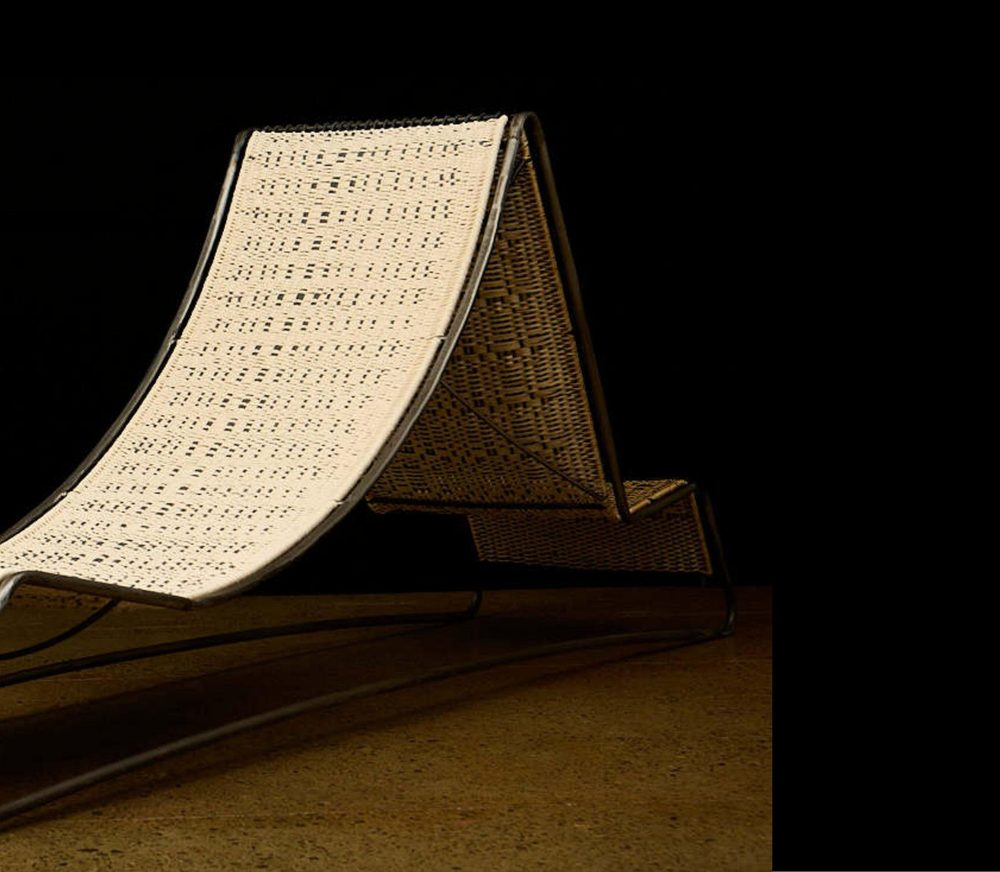
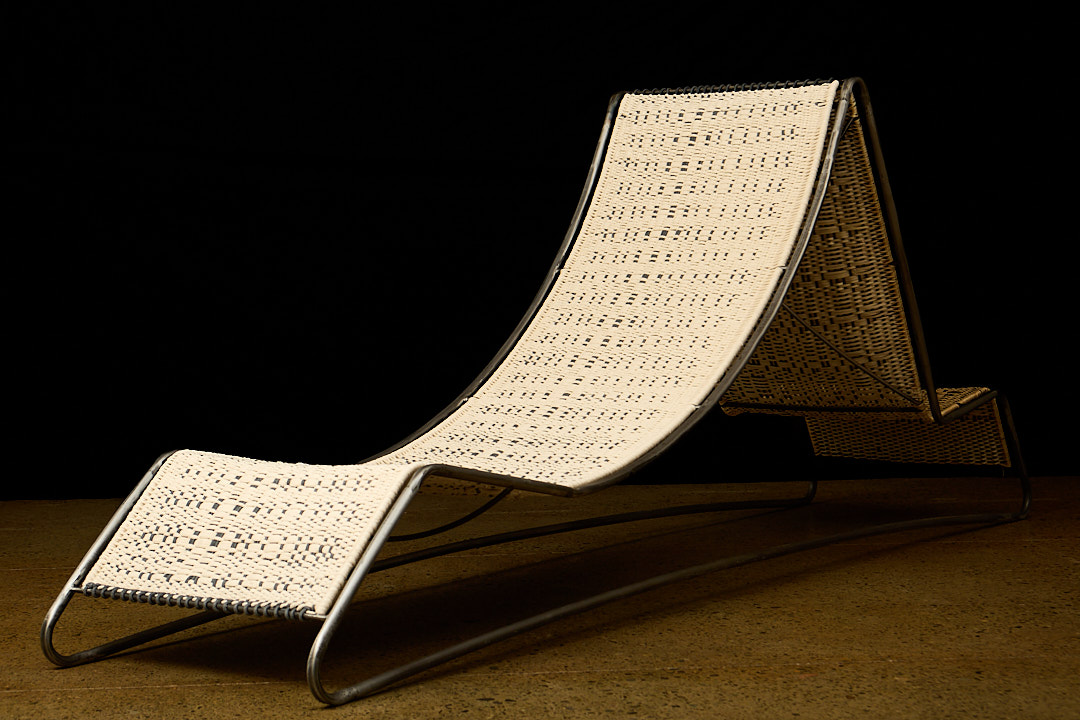
Volver a fondo negro en Productos y corregir foto de Contrapunto
- Restaura el fondo negro de la sección Productos (tanto la sección
  como las fotos recortadas van en negro, no en claro) — las fotos
  siguen sin fondo/flotando, solo cambia el color detrás.
- Reemplaza la foto de Contrapunto por la versión completa del
  catálogo oficial (la anterior estaba cortada por el borde izquierdo,
  perdía parte del sillón).

Pendiente: la foto de Tramas Suspendidas también está cortada por la
izquierda: se mantiene la versión actual (correcta en cuanto a pieza,
pero incompleta) hasta confirmar cuál es la foto completa correcta en
el catálogo — hay más de una silla con estética similar en las fotos
oficiales y no quiero arriesgar poner la pieza equivocada.

diff --git a/css/style.css b/css/style.css
@@ -637,13 +637,13 @@ ol {
   color: var(--color-carbon-soft);
 }
 
-/* ---- Productos: piezas de la colección ----
-   Fotos recortadas (sin fondo) para que floten sobre el fondo claro de
-   la página, en vez de la caja negra usada en el resto de las fotos de
-   producto. */
+/* ---- Productos: piezas de la colección (fondo negro, fotos de producto) ----
+   Las fotos van sin fondo (recorte del objeto) pero "flotan" sobre el
+   fondo negro de la sección, en vez de mostrarse dentro de una caja
+   rectangular. */
 .productos {
-  background: var(--color-offwhite);
-  color: var(--color-carbon);
+  background: var(--color-black);
+  color: var(--color-white);
 }
 
 .productos__title {
@@ -666,7 +666,7 @@ ol {
   font-style: italic;
   font-size: clamp(1.05rem, 1.6vw, 1.25rem);
   line-height: 1.6;
-  color: var(--color-carbon-soft);
+  color: rgba(255, 255, 255, 0.9);
 }
 
 .piece-list {
@@ -692,7 +692,7 @@ ol {
   max-width: 420px;
   height: auto;
   margin: 0 auto;
-  filter: drop-shadow(0 24px 32px rgba(28, 33, 34, 0.18));
+  filter: drop-shadow(0 24px 32px rgba(0, 0, 0, 0.6));
 }
 
 .piece-row__index {
@@ -718,7 +718,7 @@ ol {
 .piece__desc {
   margin-top: 16px;
   max-width: 42ch;
-  color: var(--color-carbon-soft);
+  color: rgba(255, 255, 255, 0.85);
 }
 
 @media (min-width: 760px) {

diff --git a/index.html b/index.html
@@ -216,7 +216,7 @@
   <!-- ============ PRODUCTOS — La obra seleccionada ============ -->
   <section class="section productos" id="productos">
     <div class="container">
-      <p class="eyebrow">La obra seleccionada</p>
+      <p class="eyebrow eyebrow--on-dark">La obra seleccionada</p>
       <h2 class="productos__title">Inteligencia Artesanal<span class="productos__title-sub">Entrelazando Oficios</span></h2>
 
       <p class="productos__curatorial">"La colección Inteligencia Artesanal se despliega como un manifiesto visual sobre la vigencia del oficio en la era contemporánea. A través de una exploración interdisciplinaria, la muestra entrelaza la fibra del mimbre con el trabajo en textil, la ebanistería, la metalurgia y la cerámica, desafiando la rigidez de los materiales para alcanzar una organicidad vegetal, que parece cobrar vida propia.<br /><br />Más allá de su valor formal, esta propuesta reivindica la artesanía como una inteligencia colectiva construida históricamente, posicionándola como un acto de resistencia cultural frente a la aceleración industrial."</p>
